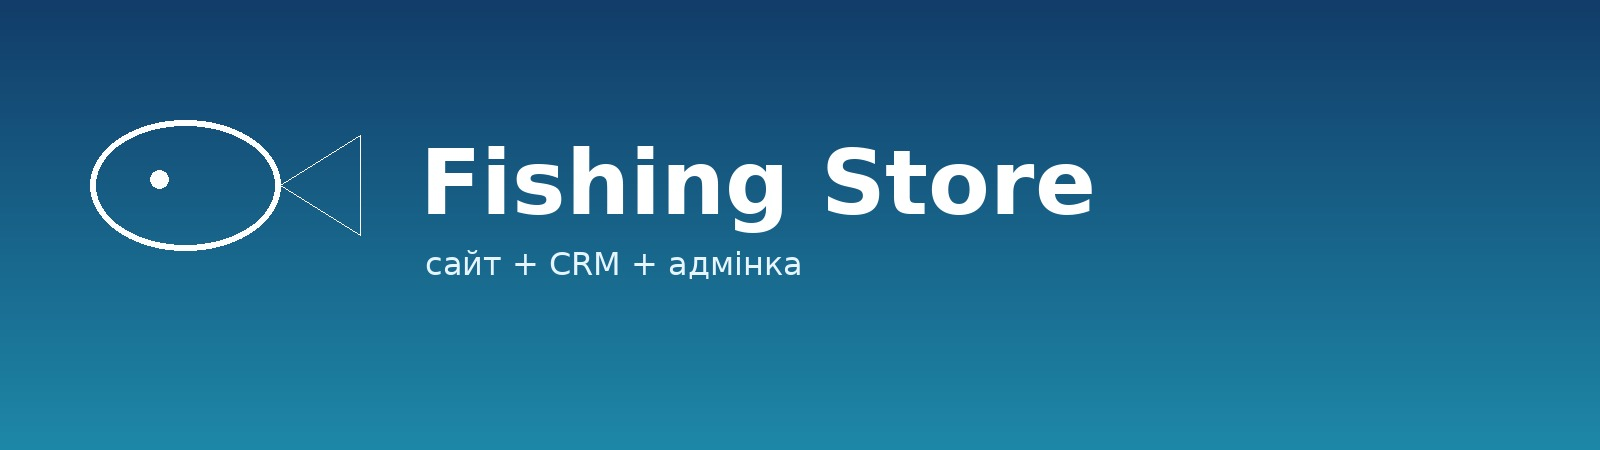
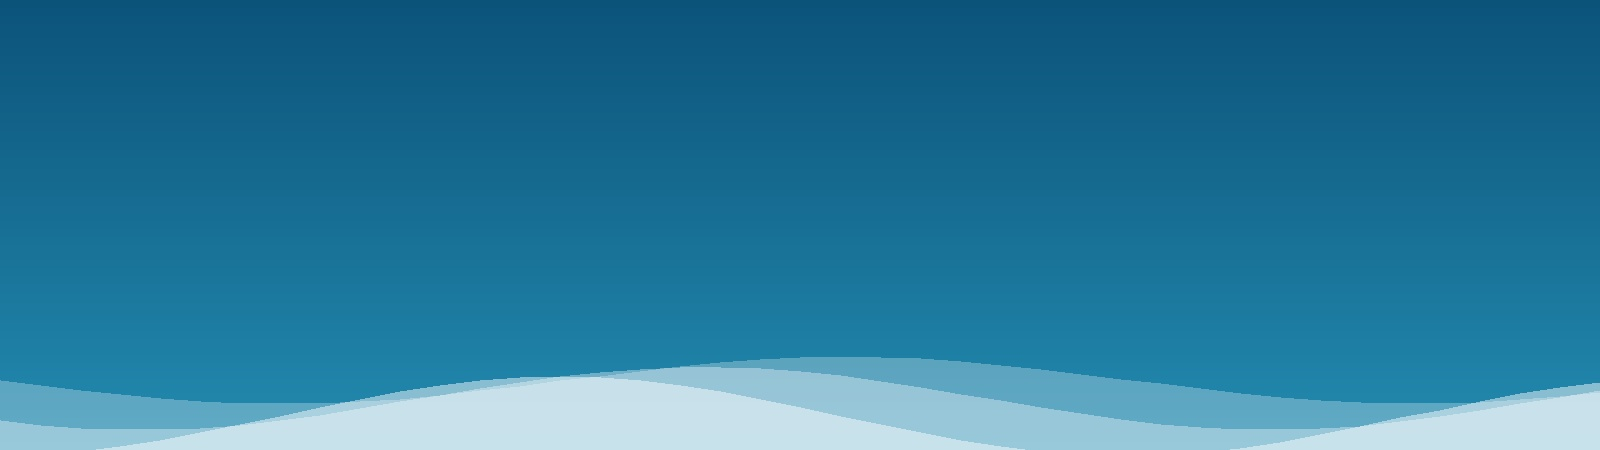
Add files via upload

diff --git a/crm-panel.html b/crm-panel.html
@@ -3,7 +3,7 @@
 <head>
   <meta charset="UTF-8">
   <meta name="viewport" content="width=device-width, initial-scale=1.0">
-  <title>Fishing Store CRM Pro</title>
+  <title>CRM | Рай Рибака</title>
   <style>
     :root{
       --bg:#f5f7fb;
@@ -110,10 +110,10 @@
 <body>
   <div id="authView" class="auth-wrap">
     <div class="auth-card">
-      <h2>Fishing Store CRM Pro</h2>
-      <p>Вхід для адміністратора та оператора.</p>
-      <input id="loginEmail" type="email" placeholder="Email">
-      <input id="loginPassword" type="password" placeholder="Пароль">
+      <h2>Рай Рибака CRM</h2>
+      
+      <input id="loginEmail" type="email" placeholder="Електронна пошта" autocomplete="off" autocapitalize="off" spellcheck="false">
+      <input id="loginPassword" type="password" placeholder="Пароль" autocomplete="new-password">
       <button onclick="loginCRM()">Увійти</button>
       <div id="authError" class="auth-note"></div>
     </div>
@@ -122,10 +122,10 @@
   <div id="appView" class="hidden">
     <header class="app-header">
       <div class="brand">
-        <div class="brand-badge">K</div>
+        <div class="brand-badge">Р</div>
         <div>
-          <h1>Fishing Store CRM Pro</h1>
-          <p>CRM у стилі LP: вкладки по днях, список замовлень, редагована картка.</p>
+          <h1>Рай Рибака CRM</h1>
+          
         </div>
       </div>
       <div class="header-actions">
@@ -137,9 +137,7 @@
     </header>
 
     <div class="layout">
-      <div class="top-note">Закази показуються списком по вкладках. При відкритті карточки можна редагувати дані клієнта, коментарі, етап, статус і суму.</div>
-
-      <section class="stats">
+<section class="stats">
         <div class="stat-card"><div class="label">Замовлень сьогодні</div><div class="value" id="statToday">0</div></div>
         <div class="stat-card"><div class="label">У роботі зараз</div><div class="value" id="statActive">0</div></div>
         <div class="stat-card"><div class="label">Виторг по вибірці</div><div class="value" id="statRevenue">0 грн</div></div>
@@ -147,7 +145,7 @@
       </section>
 
       <section class="toolbar">
-        <input id="searchInput" placeholder="Пошук: ім'я, телефон, місто" oninput="applyFilters()">
+        <input id="searchInput" placeholder="Пошук: ім'я, телефон, місто" autocomplete="off" oninput="applyFilters()">
         <select id="deliveryFilter" onchange="applyFilters()">
           <option value="all">Вся доставка</option>
           <option value="Нова пошта">Нова пошта</option>

diff --git a/index.html b/index.html
@@ -4,7 +4,7 @@
 <head>
 <meta charset="UTF-8">
 <meta name="viewport" content="width=device-width, initial-scale=1.0">
-<title>Fishing Store</title>
+<title>Рай Рибака</title>
 <link rel="stylesheet" href="style.css">
 </head>
 
@@ -13,7 +13,7 @@
 <div id="cart-overlay" class="cart-overlay" onclick="closeCart()"></div>
 
 <header>
-    <div class="logo">Fishing Store</div>
+    <div class="logo">Рай Рибака</div>
     <input id="search" placeholder="🔍 Пошук товару">
     <div class="cart-button" onclick="toggleCart()">
         🛒 <span id="cart-count">0</span>
@@ -21,7 +21,7 @@
 </header>
 
 <div class="banner">
-    <img src="banner.jpg" alt="Fishing Store banner">
+    <img src="banner.jpg" alt="Банер магазину Рай Рибака">
 </div>
 
 <div class="container">

diff --git a/admin-safe.html b/admin-safe.html
@@ -3,7 +3,7 @@
 <head>
 <meta charset="UTF-8">
 <meta name="viewport" content="width=device-width, initial-scale=1.0">
-<title>Адмін панель Fishing Store</title>
+<title>Адмінка | Рай Рибака</title>
 
 <link rel="stylesheet" href="style.css">
 
@@ -240,7 +240,7 @@ button:hover{
 
 <div class="admin-box" id="adminBox">
 
-    <h2>🔧 Адмін панель Fishing Store</h2>
+    <h2>🔧 Адмінка Рай Рибака</h2>
 
     <div class="panel-card">
         <h3 class="section-title">📦 Додати / редагувати товар</h3>

diff --git a/product.html b/product.html
@@ -6,7 +6,7 @@
 <meta charset="UTF-8">
 <meta name="viewport" content="width=device-width, initial-scale=1.0">
 
-<title>Товар | Fishing Store</title>
+<title>Товар | Рай Рибака</title>
 
 <link rel="stylesheet" href="style.css">
 
@@ -15,7 +15,7 @@
 <body>
 
 <header>
-<div class="logo">Fishing Store</div>
+<div class="logo">Рай Рибака</div>
 </header>
 
 <div class="container" style="padding:40px; justify-content:center;">
